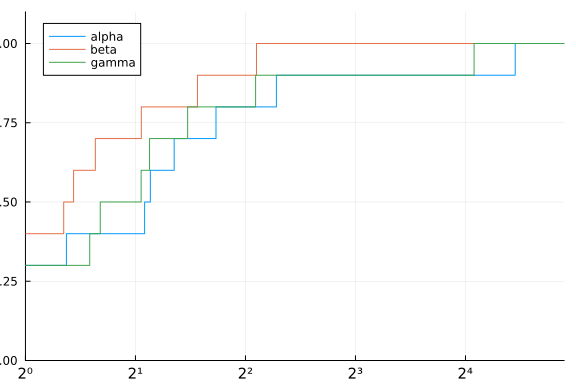
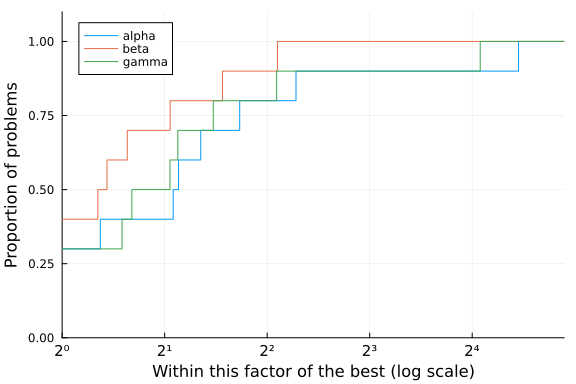
:robot: Tutorials deployment from 11b9d53498a31b446f512882fd85f204c63ecc0a

Changed region(s): [[0.0, 0.0312, 0.9688, 1.0], [0.0, 0.9062, 0.0625, 1.0]]

diff --git a/tutorials/introduction-to-solverbenchmark/index.md b/tutorials/introduction-to-solverbenchmark/index.md
@@ -6,9 +6,13 @@
 
 
 [![SolverBenchmark 0.5.5](https://img.shields.io/badge/SolverBenchmark-0.5.5-006400?style=flat-square&labelColor=389826)](https://jso.dev/SolverBenchmark.jl/stable/)
+[![NLPModelsTest 0.9.2](https://img.shields.io/badge/NLPModelsTest-0.9.2-8b0000?style=flat-square&labelColor=cb3c33)](https://jso.dev/NLPModelsTest.jl/stable/)
+[![SolverCore 0.3.10](https://img.shields.io/badge/SolverCore-0.3.10-006400?style=flat-square&labelColor=389826)](https://jso.dev/SolverCore.jl/stable/)
 ![DataFrames 1.3.6](https://img.shields.io/badge/DataFrames-1.3.6-000?style=flat-square&labelColor=999)
-![Plots 1.39.0](https://img.shields.io/badge/Plots-1.39.0-000?style=flat-square&labelColor=999)
-![PyPlot 2.11.2](https://img.shields.io/badge/PyPlot-2.11.2-000?style=flat-square&labelColor=999)
+![Plots 1.41.6](https://img.shields.io/badge/Plots-1.41.6-000?style=flat-square&labelColor=999)
+![PyPlot 2.11.6](https://img.shields.io/badge/PyPlot-2.11.6-000?style=flat-square&labelColor=999)
+![Random 1.11.0](https://img.shields.io/badge/Random-1.11.0-000?style=flat-square&labelColor=999)
+![Printf 1.11.0](https://img.shields.io/badge/Printf-1.11.0-000?style=flat-square&labelColor=999)
 
 
 
@@ -288,7 +292,7 @@ pretty_stats(df[!, [:name, :f, :t]],
 
 
 
-See the [PrettyTables.jl documentation](https://ronisbr.github.io/PrettyTables.jl/stable/) for more information.
+See the [PrettyTables.jl documentation](https://ronisbr.github.io/PrettyTables.jl/stable/man/formatters/) for more information.
 
 When using LaTeX format, the output must be understood by LaTeX.
 By default, numerical data in the table is wrapped in inline math environments.
@@ -527,3 +531,39 @@ p = profile_solvers(stats, costs, costnames)
 Here is a useful tutorial on how to use the benchmark with specific solver:
 [Run a benchmark with OptimizationProblems](https://jso.dev/OptimizationProblems.jl/dev/benchmark/)
 The tutorial covers how to use the problems from `OptimizationProblems` to run a benchmark for unconstrained optimization.
+
+### Handling `solver_specific` in `stats`
+
+If a solver's `GenericExecutionStats` contains a `solver_specific` dictionary, then when `bmark_solvers` processes the results it creates a column in the per-solver `DataFrame` for each key in that dictionary. These columns can then be analyzed and compared alongside the standard metrics such as `status` and `elapsed_time`.
+
+Here is an example showing how to set a solver-specific flag so that it appears as a column in the resulting stats table and can be used for tabulation:
+```julia
+using NLPModelsTest, DataFrames, SolverCore, SolverBenchmark
+
+function newton(nlp)
+  stats = GenericExecutionStats(nlp)
+  set_solver_specific!(stats, :isConvex, true)
+  return stats
+end
+
+solvers = Dict(:newton => newton)
+problems = [NLPModelsTest.BROWNDEN()]
+stats = bmark_solvers(solvers, problems)
+
+# Access the solver-specific column `:isConvex` for the `:newton` solver
+df_newton = stats[:newton]
+df_newton.isConvex
+```
+
+```plaintext
+Error: UndefVarError: `reset!` not defined in `SolverBenchmark`
+Hint: It looks like two or more modules export different bindings with this name, resulting in ambiguity. Try explicitly importing it from a particular module, or qualifying the name with the module i
+t should come from.
+Hint: a global variable of this name also exists in DataStructures.
+Hint: a global variable of this name also exists in SolverCore.
+Hint: a global variable of this name also exists in WorkerUtilities.
+Hint: a global variable of this name also exists in ConcurrentUtilities.
+Hint: a global variable of this name also exists in LinearOperators.
+    - Also exported by NLPModels (loaded but not imported in Main).
+```
+
